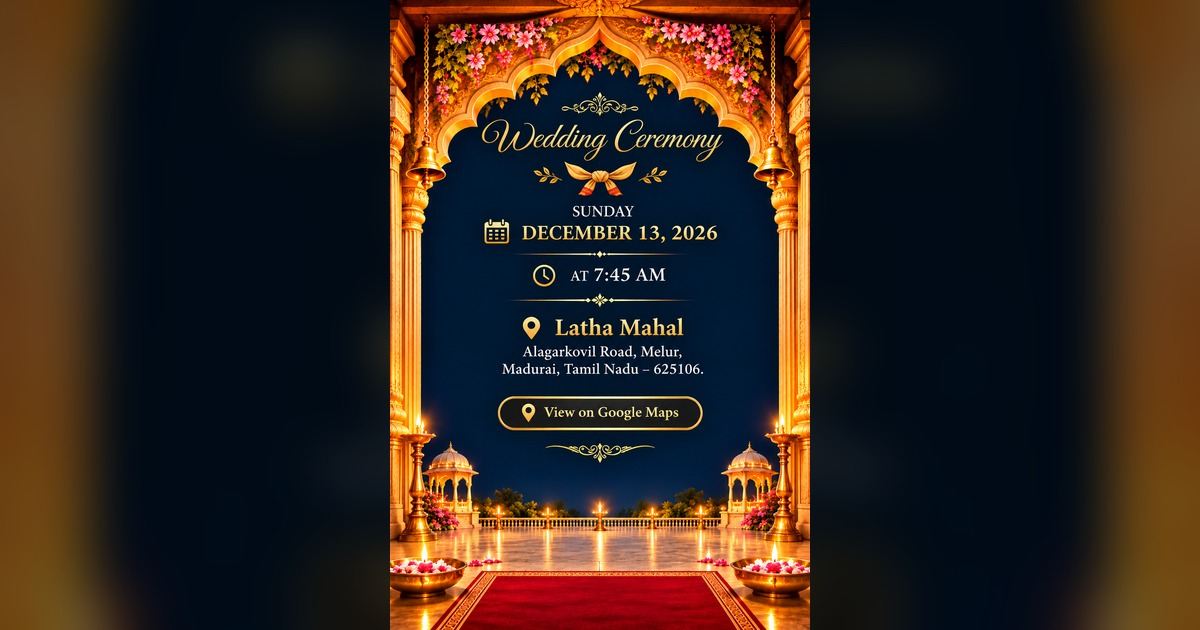
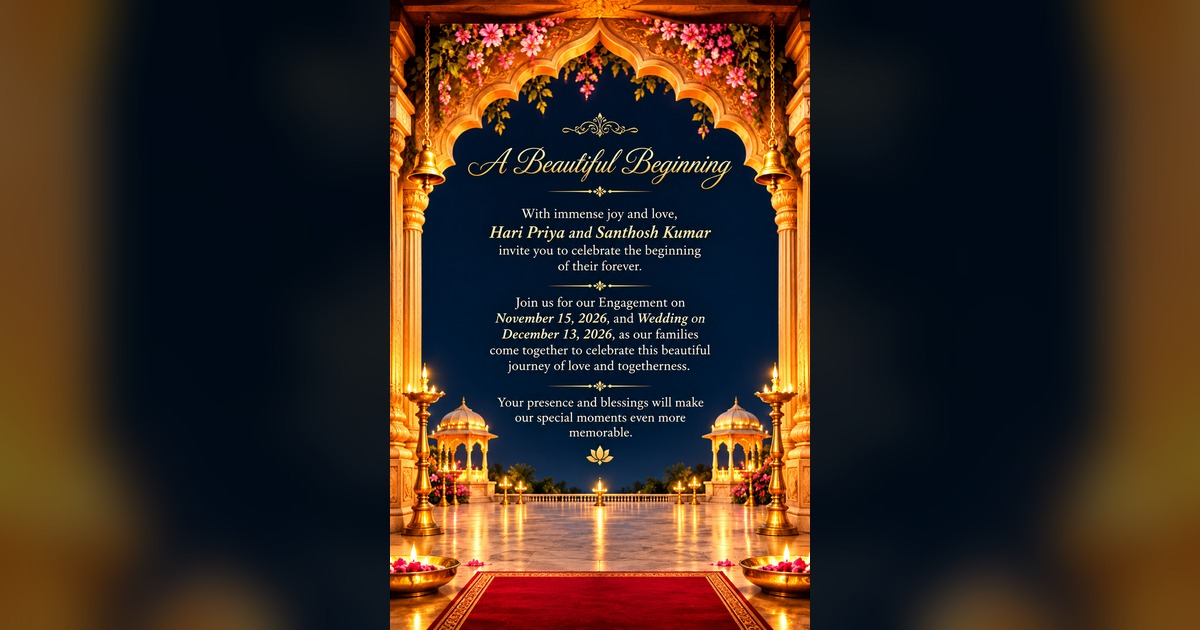
fix(seo): switch preview card to main invitation card with couple names

Changed region(s): [[0.3083, 0.0, 0.6783, 1.0], [0.74, 0.6937, 0.9558, 1.0], [0.0617, 0.7238, 0.2467, 1.0]]

diff --git a/index.html b/index.html
@@ -12,8 +12,8 @@
     <meta property="og:url" content="https://e-invitation-3.onrender.com/" />
     <meta property="og:title" content="Santhosh ❤ Hari Priya | Wedding Invitation" />
     <meta property="og:description" content="Join us to celebrate our special day!" />
-    <meta property="og:image" content="https://e-invitation-3.onrender.com/wedding-preview.jpg" />
-    <meta property="og:image:secure_url" content="https://e-invitation-3.onrender.com/wedding-preview.jpg" />
+    <meta property="og:image" content="https://e-invitation-3.onrender.com/invitation-preview.jpg" />
+    <meta property="og:image:secure_url" content="https://e-invitation-3.onrender.com/invitation-preview.jpg" />
     <meta property="og:image:type" content="image/jpeg" />
     <meta property="og:image:width" content="1200" />
     <meta property="og:image:height" content="630" />
@@ -24,7 +24,7 @@
     <meta name="twitter:url" content="https://e-invitation-3.onrender.com/" />
     <meta name="twitter:title" content="Santhosh ❤ Hari Priya | Wedding Invitation" />
     <meta name="twitter:description" content="Join us to celebrate our special day!" />
-    <meta name="twitter:image" content="https://e-invitation-3.onrender.com/wedding-preview.jpg" />
+    <meta name="twitter:image" content="https://e-invitation-3.onrender.com/invitation-preview.jpg" />
     <link rel="preconnect" href="https://fonts.googleapis.com">
     <link rel="preconnect" href="https://fonts.gstatic.com" crossorigin>
     <link href="https://fonts.googleapis.com/css2?family=Great+Vibes&display=swap" rel="stylesheet">
